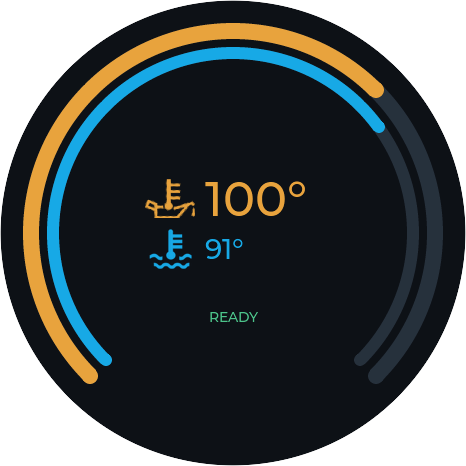
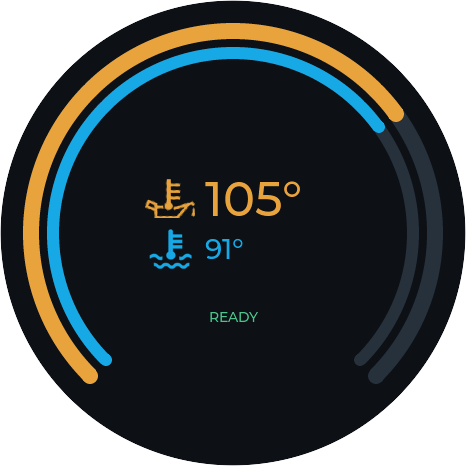
README: fresh screenshots of the gauge, with the over-temperature warning
All eight retaken in the simulator on the made-up track session: the
track screen now has the live delta and the arc filling up to the line,
and a new one shows the oil over its warning on the in-lap, the red rim
over the screen. The feature list catches up: warnings on every screen,
how far the line is and the delta, fuel rate, lambda, catalyst and rail
in the logs, the track session's .vbo for lap analysers, and the app
letting go of the gauge's WiFi once synced.

Changed region(s): [[0.5408, 0.3906, 0.6609, 0.4807], [0.7811, 0.1803, 0.8712, 0.2704]]

diff --git a/README.md b/README.md
@@ -41,24 +41,30 @@ and a tap on the gauge for its live readings in the car. More in
 <p>
 <img src="docs/gauge/05-gps.png" alt="GPS speed and trip" width="24%">
 <img src="docs/gauge/06-track.png" alt="The lap timer, with the delta to the best lap" width="24%">
+<img src="docs/gauge/07-oilhot.png" alt="The lap timer with the oil over-temperature warning around it" width="24%">
 <img src="docs/gauge/00-wake.png" alt="Waking up: the N badge until the car answers" width="24%">
 </p>
 
 *The gauge's screens - oil and coolant, boost, the g-meter, tyres, GPS, and
-the lap timer 1.8 s up on the best lap - and the N badge it wakes up with.
-Swiped through on the gauge; these are from the [simulator](sim) on a
-made-up track session (`sim/screenshots.sh`).*
+the lap timer 1.8 s up on the best lap, the arc filling up to the line - then
+the oil over its warning on the in-lap, a red rim over whichever screen is
+up, and the N badge it wakes up with. Swiped through on the gauge; these are
+from the [simulator](sim) on a made-up track session (`sim/screenshots.sh`).*
 
 ## What it does
 
 - **Gauges:** oil and coolant (concentric arcs, with a cold-engine "not
-  ready" state and over-temperature warnings), boost, a g-meter, the four tyre
-  pressures and temperatures, GPS speed and trip distance, a lap timer that
-  finds the start/finish line by itself (tap START in the pit, then drive).
-- **Logging:** a CSV of every drive (2 Hz, decoded values - battery voltage
-  among them - plus the raw payloads), a GPX track at 25 Hz, a sleep log.
-  Logs can be encrypted to a key only the phone holds, so a card taken out
-  of the gauge gives nothing away.
+  ready" state, and over-temperature warnings on every screen), boost, a
+  g-meter, the four tyre pressures and temperatures, GPS speed and trip
+  distance, a lap timer that finds the start/finish line by itself (tap START
+  in the pit, then drive), with how far the line is and the live delta to the
+  best lap.
+- **Logging:** a CSV of every drive (2 Hz, decoded values - battery voltage,
+  fuel rate, lambda, catalyst and fuel rail among them - plus the raw
+  payloads), a GPX track at 25 Hz, a sleep log, and for each track session a
+  Racelogic `.vbo` with every channel, which lap analysers open (HackTheTrack,
+  Circuit Tools). Logs can be encrypted to a key only the phone holds, so a
+  card taken out of the gauge gives nothing away.
 - **Waking up:** the N badge until the car answers, so the gauges never
   show a row of dashes; with a PC on USB, a status page for the desk.
 - **Power:** deep sleep when the car goes quiet, ~11 mA parked (about 57
@@ -66,7 +72,8 @@ made-up track session (`sim/screenshots.sh`).*
   opening (the IMU's wake-on-motion).
 - **Phone:** its own WiFi access point with settings pages, OTA firmware
   updates with rollback, and an Android app ([mobile/](mobile)) that joins it
-  from a QR code on the gauge and syncs the logs by itself. Each drive is
+  from a QR code on the gauge, syncs the logs by itself and then lets go of
+  the gauge's WiFi, so the phone is back on the internet. Each drive is
   named after where it started and ended (offline, from GeoNames - your own
   places like "Home" win), grouped by week, with its track on a map and its
   speed, boost, temperatures and voltage as charts. Delete a drive and it
